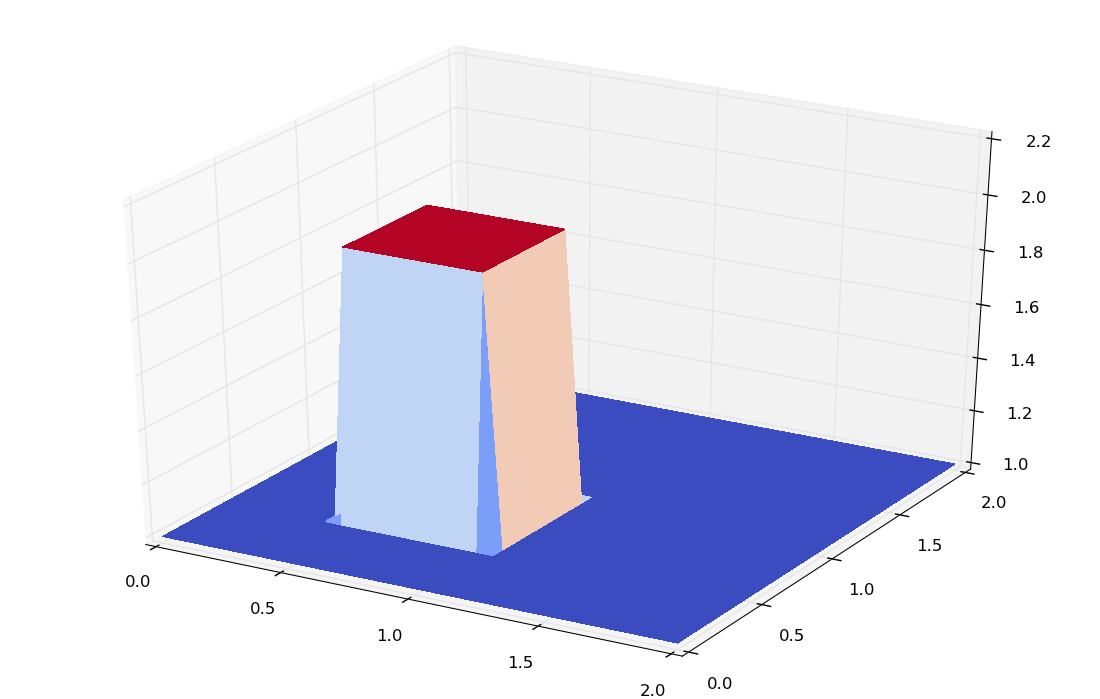
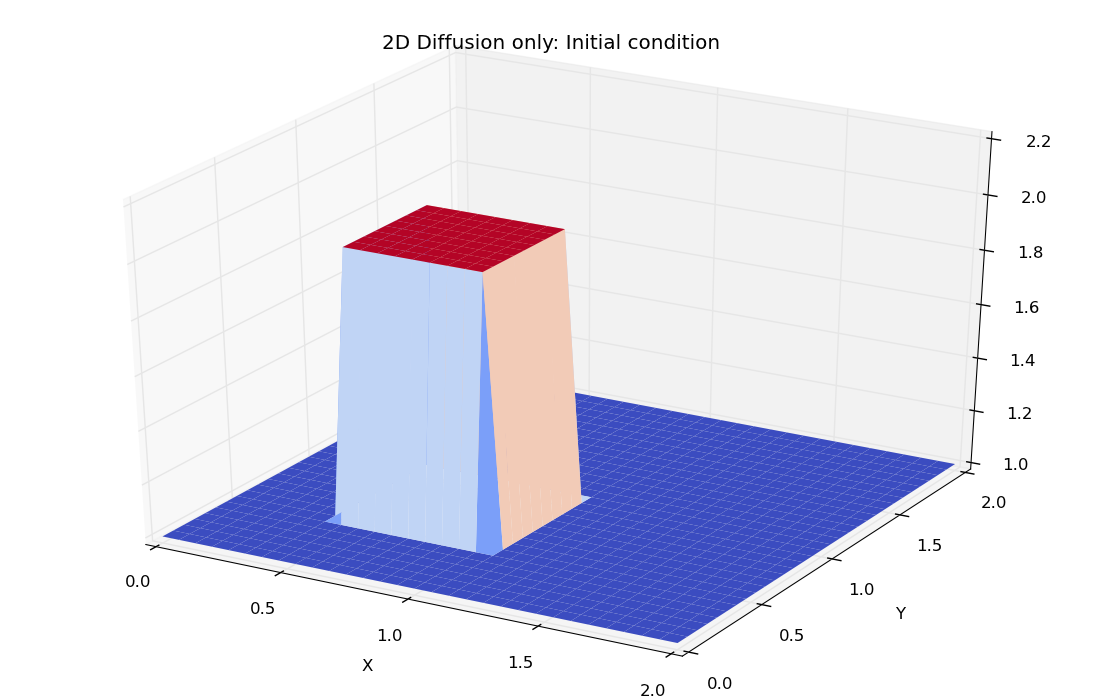
Minor changes for blog posting
www.fgheorghe.blogspot.com

Changed region(s): [[0.1545, 0.5708, 0.8655, 0.9013], [0.34, 0.03, 0.6491, 0.0901], [0.3091, 0.3004, 0.4945, 0.3906]]

diff --git a/step7/2D_Diffusion.py b/step7/2D_Diffusion.py
@@ -39,8 +39,11 @@ u[0.5/dy:1/dy+1, 0.5/dx:1/dx+1] = 2 # This is the hat function
 fig =pl.figure(figsize = (11,7), dpi = 100)
 ax = Axes3D(fig)
 X, Y = np.meshgrid(x,y)
-surf1 = ax.plot_surface(X,Y,u[:], rstride=1, cstride=1, cmap=cm.coolwarm,
+ax.plot_surface(X,Y,u[:], rstride=1, cstride=1, cmap=cm.coolwarm,
         linewidth=0, antialiased=True)
+pl.xlabel('X')
+pl.ylabel('Y')
+pl.title('2D Diffusion only: Initial condition')
 
 # Applying the scheme in a function of time
 def diffuse(nt):
@@ -59,9 +62,15 @@ def diffuse(nt):
     
     fig = pl.figure(figsize = (11,7), dpi = 100)
     ax = Axes3D(fig)
-    surf2 = ax.plot_surface(X,Y,u[:], rstride=1, cstride=1, cmap=cm.coolwarm, \
+    ax.plot_surface(X,Y,u[:], rstride=1, cstride=1, cmap=cm.coolwarm, \
     linewidth=0, antialiased=True)
+    pl.xlabel('X')
+    pl.ylabel('Y')
+    pl.title('2D Diffusion only: Solution after '+ str(nt) + ' steps')
     ax.set_zlim(1,2.5)
     pl.show()
     
 diffuse(10)
+diffuse(30)
+diffuse(90)
+diffuse(270)
